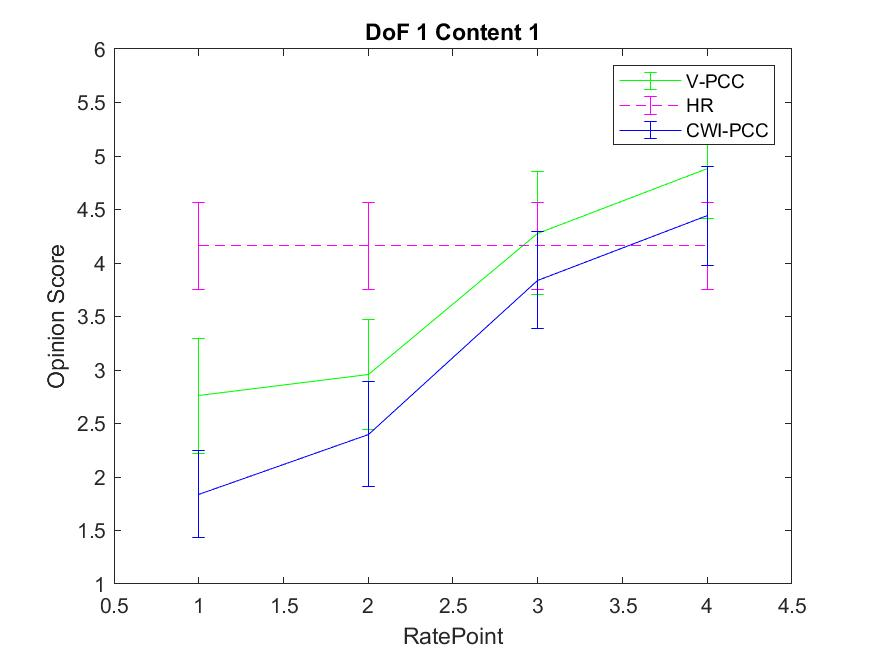
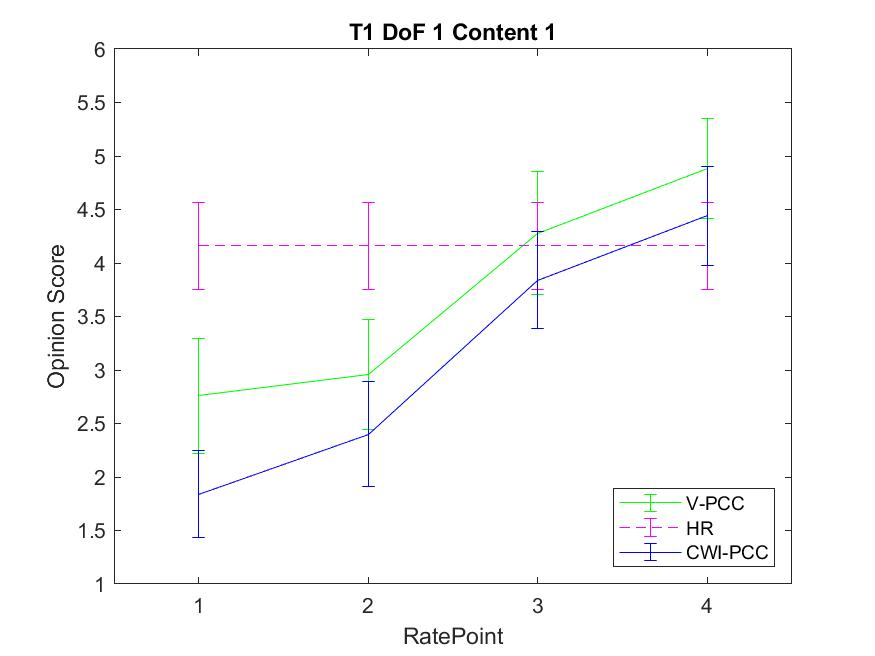
Moved DMOS chart legend to bottom right

diff --git a/Functions/makePlot.m b/Functions/makePlot.m
@@ -20,11 +20,13 @@ function makePlot(Tin,DoF,Content,dataset)
     CI = abs(TContent.CIHigh - TContent.CILow)/2;
     errorbar(X,Y,CI,'Color','blue');
     legend('V-PCC','HR','CWI-PCC');
-    title("DoF " + DoF + " Content " + Content);
+    title("T" + dataset + " DoF " + DoF + " Content " + Content);
     xlabel('RatePoint');
     ylabel('Opinion Score');
     xlim([0.5 4.5]);
     ylim([1 6]);
+    xticks([1 2 3 4]);
+    legend('Location','southeast');
     hold off;
     ax = gca;
     %exportgraphics(ax,'Charts/test1234.jpg');
